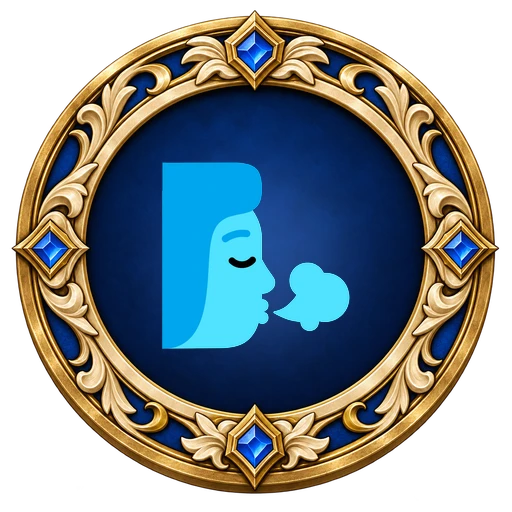
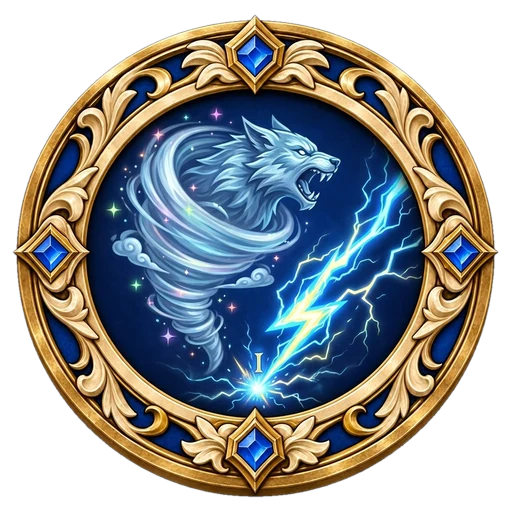
Trinkety: vlastný art pre 14 trinketov namiesto dočasných medailónov s emoji

diff --git a/index.html b/index.html
@@ -192,7 +192,7 @@
 
   <footer><span id="footNote"></span></footer>
 
-  <script src="version.js?v=d80c4241"></script>
+  <script src="version.js?v=7a260299"></script>
   <script src="vendor/peerjs.min.js?v=7e60515a"></script>
   <script src="src/i18n.js?v=a6075a14"></script>
   <script src="src/net.js?v=96c2da75"></script>

diff --git a/version.js b/version.js
@@ -1,2 +1,2 @@
 // Generuje tools/bump-version.py (pre-commit) – čas buildu v UTC.
-const APP_BUILD = "2026-10-15T07:43:05Z";
+const APP_BUILD = "2026-10-15T09:52:18Z";

diff --git a/tools/trinket-placeholder.py b/tools/trinket-placeholder.py
@@ -12,14 +12,10 @@ OUT = ROOT / "assets" / "trinkets"
 FONT = "C:/Windows/Fonts/seguiemj.ttf"
 SIZE = 512
 
-# id trinketu -> emoji (rovnaké ako L.trinkets[id].e v src/i18n.js)
-EMOJI = {
-    "doggyGlove": "🧤", "doggyBrush": "🪮", "doggyDouble": "💞",
-    "dragonBook": "📖", "ogreLuck": "🍀", "fairySpark": "✨",
-    "beastHunt": "🎯", "beastHunt2": "🏹", "undeadReborn": "🪦",
-    "elemWind": "🌬", "undeadFirstBone": "🦴", "undeadTauntBones": "🛡",
-    "elemBubble": "🫧", "elemZap": "⚡",
-}
+# id trinketu -> emoji (rovnaké ako L.trinkets[id].e v src/i18n.js).
+# Prázdne: všetky trinkety majú vlastný art (Gemini, 15. 10. 2026). Nový
+# trinket bez artu sem dočasne pridaj – inak by skript prepísal hotový art.
+EMOJI = {}
 
 
 def render(emoji):
